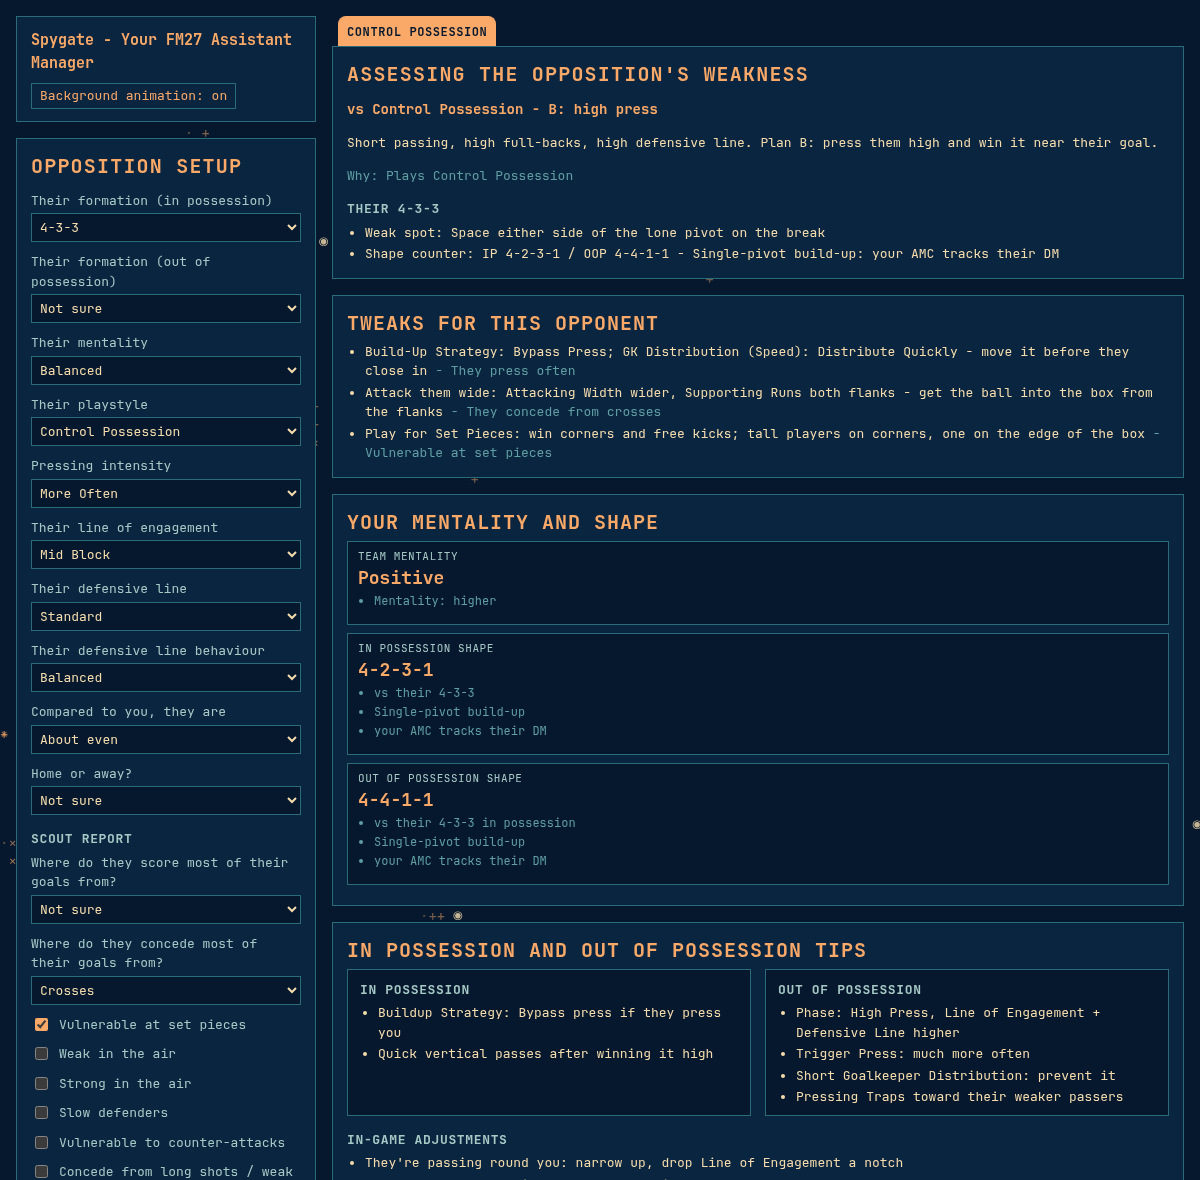
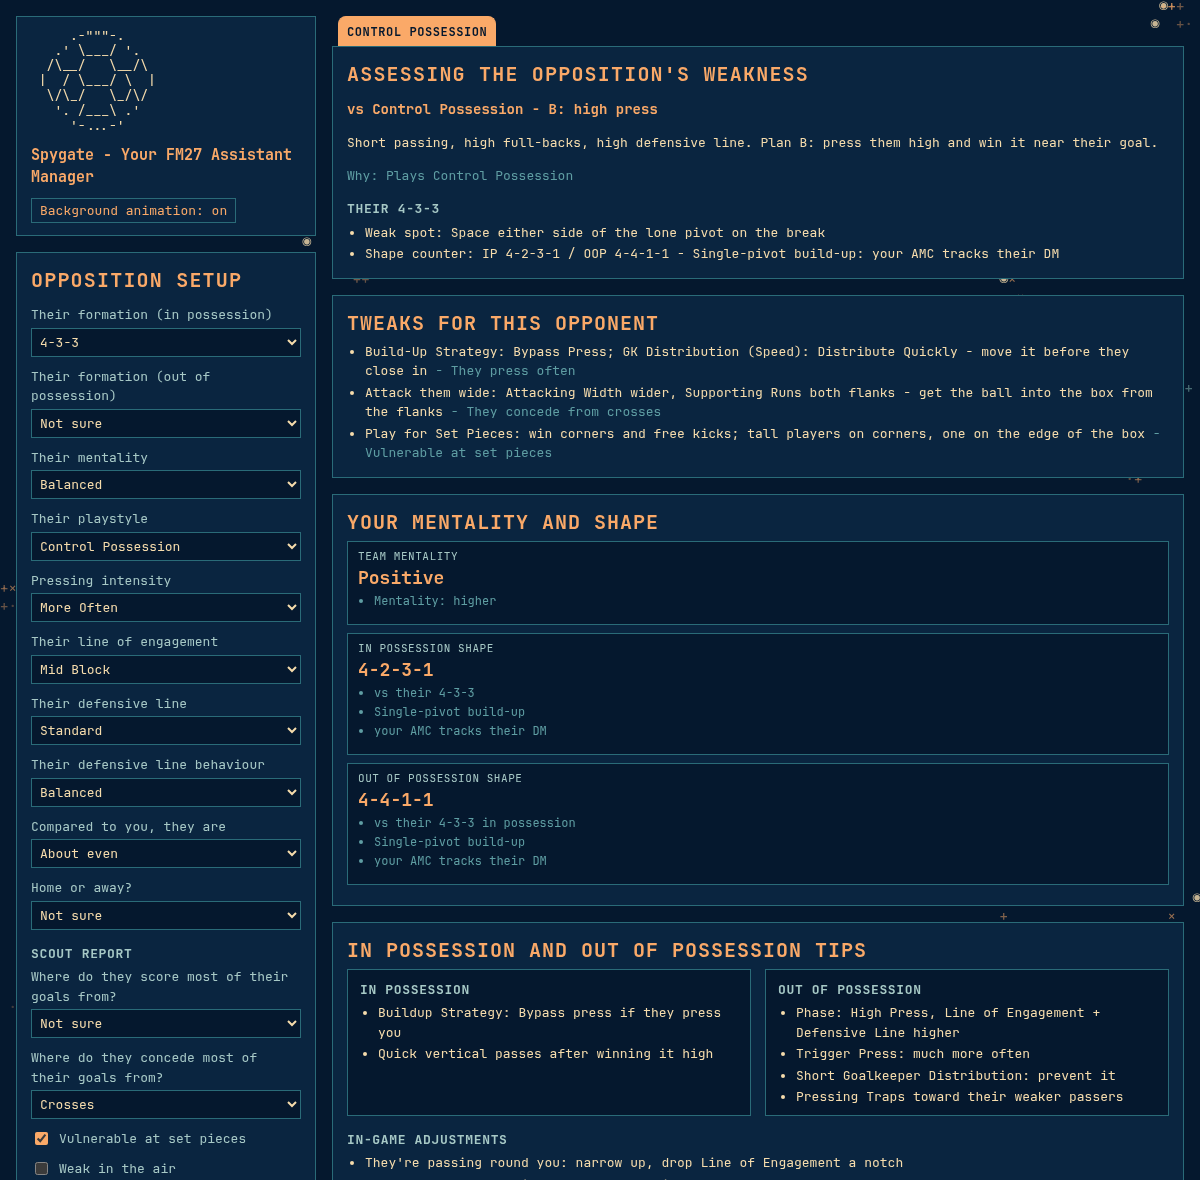
ASCII football above the title

diff --git a/index.html b/index.html
@@ -11,6 +11,7 @@ html{background:var(--bg)}body{margin:0;color:var(--ink);font:13px/1.5 var(--mon
 main{display:grid;grid-template-columns:300px 1fr;gap:16px;max-width:1200px;margin:0 auto;padding:16px}
 @media(max-width:800px){main{grid-template-columns:1fr}}
 h1{font-size:15px;margin:0 0 12px;color:var(--accent)}
+.ball{margin:0 0 10px;font-size:13px;line-height:1.15;color:var(--ink)}
 h2{font-size:14px;margin:0 0 4px;color:var(--accent)}
 h3{font-size:13px;margin:14px 0 4px;color:var(--soft);text-transform:uppercase;letter-spacing:.05em}
 .box{border:1px solid var(--line);background:var(--bg-lift);padding:12px 14px}
@@ -44,6 +45,13 @@ h3.big{font-size:16px;color:var(--accent);margin-top:0}
 <main>
 <form id="form" onsubmit="return false">
 <div class="box" style="margin-bottom:16px">
+  <pre class="ball" aria-hidden="true">     .-"""-.
+   .' \___/ '.
+  /\__/   \__/\
+ |  / \___/ \  |
+  \/\_/   \_/\/
+   '. /___\ .'
+     '-...-'</pre>
   <h1>Spygate - Your FM27 Assistant Manager</h1>
   <button type="button" id="bgToggle" aria-pressed="true" style="margin:-4px 0 0">Background animation: on</button>
 </div>
